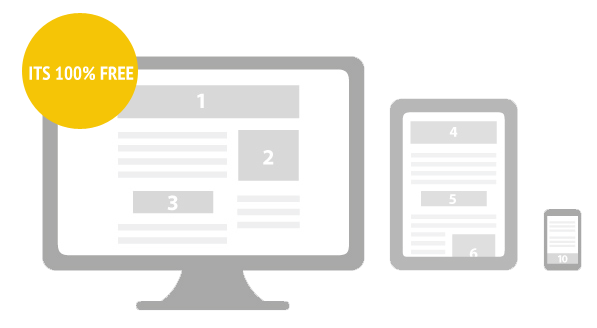
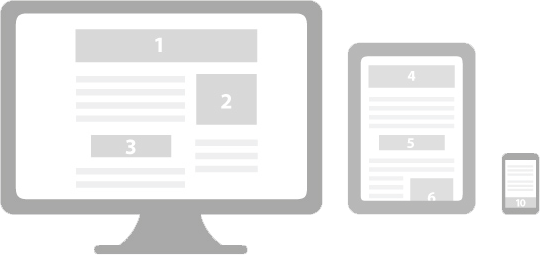
Replace 'its 100% free' image with block

diff --git a/css/style.css b/css/style.css
@@ -274,10 +274,34 @@
     align-items: center;
     width: 80%;
     margin: auto;
+    margin-top: 50px;
 }
 
 .terms-img-container {
     margin-right: 70px;
+    margin-left: 20px;
+    position: relative;
+}
+
+.free-sign_terms {
+    position: absolute;
+    top: -18%;
+    left: -8%;
+    background-color: rgb(245, 197, 6);
+    border-radius: 50%;
+    width: 22%;
+    padding-bottom: 22%;
+}
+
+.free-sign__text {
+    position: absolute;
+    top: 50%;
+    white-space: nowrap;
+    left: 50%;
+    transform: translate(-50%, -50%);
+    font-size: 15px;
+    font-family: 'Open Sans', sans-serif;
+    color: white;
 }
 
 .terms-list {

diff --git a/index.html b/index.html
@@ -110,6 +110,9 @@
         <div class="terms-content">
             <div class="terms-img-container">
                 <img class="terms__img" src="media/img/terms_img.png" />
+                <div class="free-sign free-sign_terms">
+                    <span class="free-sign__text">ITS 100% FREE</span>
+                </div>
             </div>
             <div class="terms-list-container">
                 <ul class="terms-list">

diff --git a/css/media.css b/css/media.css
@@ -248,6 +248,20 @@
     .function_twitter {
         height: 200px;
     }
+
+    .free-sign_terms {
+        position: absolute;
+        top: -10%;
+        left: -2%;
+        background-color: rgb(245, 197, 6);
+        border-radius: 50%;
+        width: 16%;
+        padding-bottom: 16%;
+    }
+
+    .free-sign__text {
+        font-size: 2vw;
+    }
 }
 
 @media only screen and (max-width: 530px) {
